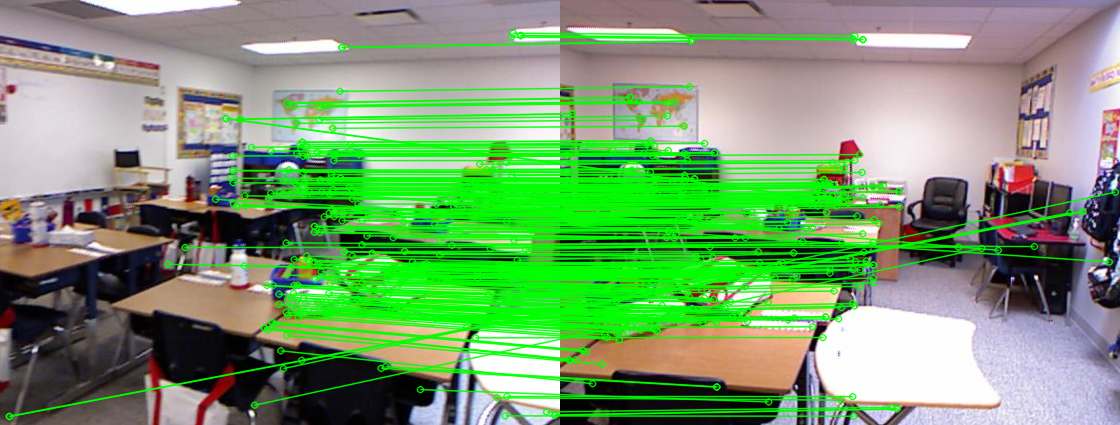
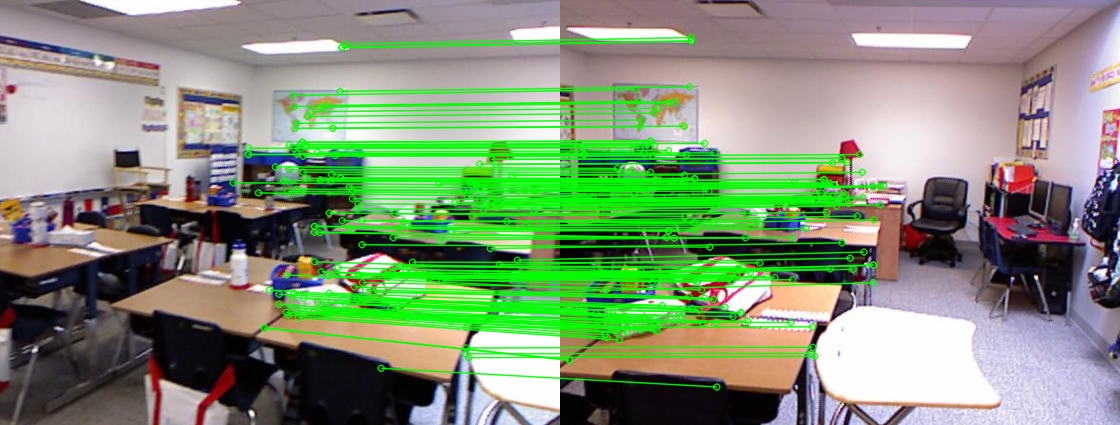
matching with kNN

diff --git a/main.py b/main.py
@@ -49,11 +49,11 @@ def main():
     matches = feature_matcher.match(des1, des2)
 
     # store all the good matches as per Lowe's ratio test.
-    # good = []
-    # for m, n in matches:
-    #     if m.distance < 0.7 * n.distance:
-    #         good.append(m)
-    # matches = good
+    good = []
+    for m, n in matches:
+        if m.distance < 0.7 * n.distance:
+            good.append(m)
+    matches = good
 
     draw_params = dict(matchColor=(0, 255, 0),  # draw matches in green color
                        singlePointColor=None,

diff --git a/feature_extractor.py b/feature_extractor.py
@@ -69,7 +69,7 @@ class FeatureMatcher:
         Returns:
         - matches: list of matches between keypoints
         """
-        matches = self.matcher.match(des1, des2)
-        # matches = self.matcher.knnMatch(des1, des2, k=2)
+        # matches = self.matcher.match(des1, des2)
+        matches = self.matcher.knnMatch(des1, des2, k=2)
 
         return matches
